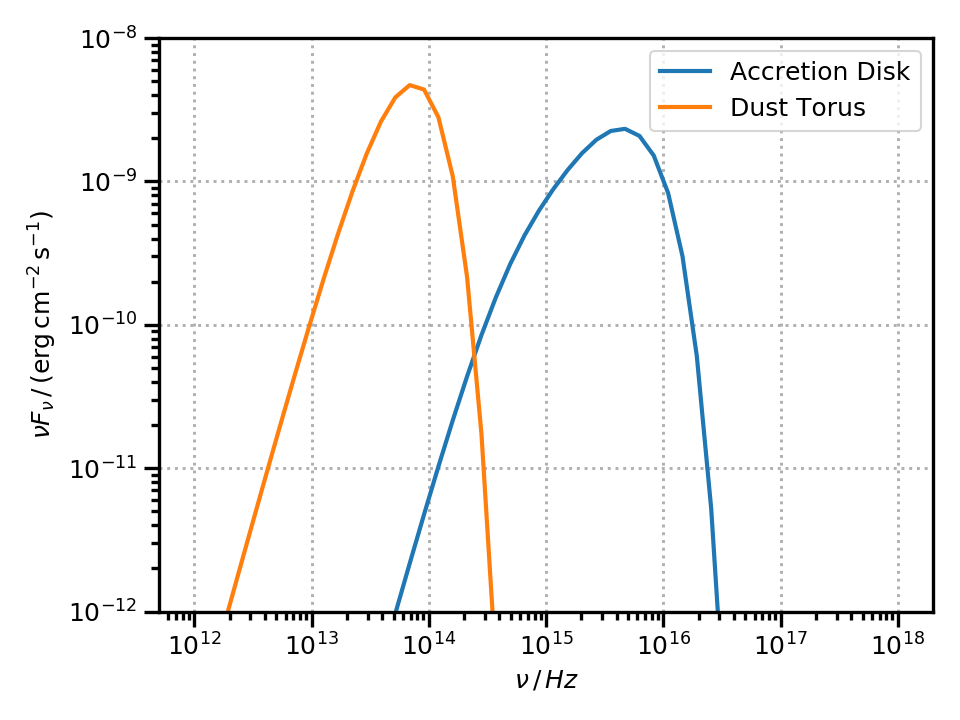
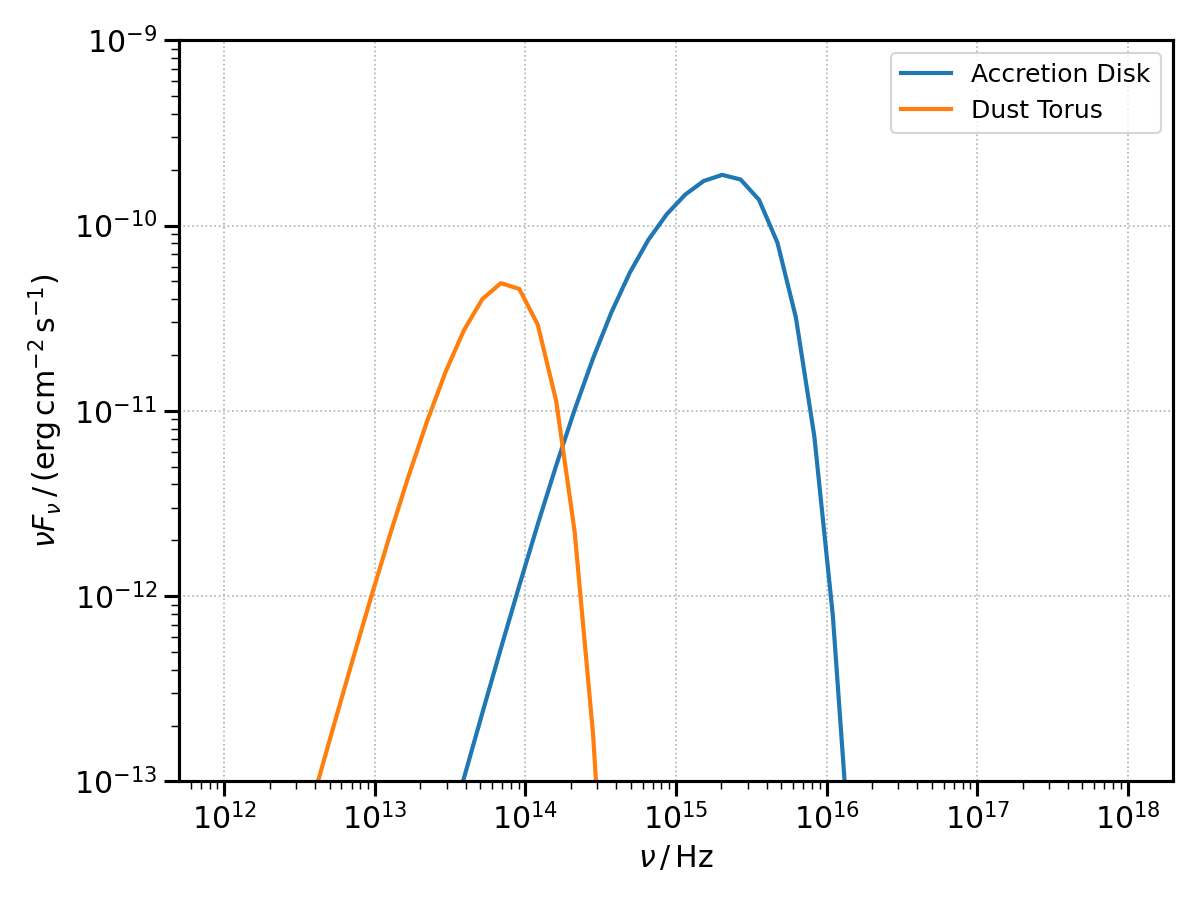
minor estethic improvements [ci skip]

diff --git a/docs/emission_regions.rst b/docs/emission_regions.rst
@@ -23,14 +23,12 @@ The physical quantities *needed* to define the blob are:
 Follows a snippet initialising the `Blob` (using `astropy` quantities) with its physical quantities and an electrons disitribtuion.
 
 .. literalinclude:: snippets/blob_snippet.py
+   :lines: 1-26
 
 Note that defining :math:`\delta_{\rm D}` and :math:`\Gamma` implicitly defines the viewing angle :math:`\theta_{\rm s}`. If you want to set the Doppler factor from :math:`\Gamma` and :math:`\theta_{\rm s}`, you can do so by using the :py:meth:`~agnpy.emission_regions.Blob.set_delta_D` function;
 
-.. code-block:: python
-
-   blob = Blob()
-   blob.set_delta_D(Gamma=20, theta_s=10 * u.deg)
-   print(f"{blob.delta_D:.2f}")
+.. literalinclude:: snippets/blob_snippet.py
+   :lines: 29-32
 
 .. code-block:: text
 
@@ -38,16 +36,8 @@ Note that defining :math:`\delta_{\rm D}` and :math:`\Gamma` implicitly defines 
 
 Since version ``0.3.0``, we can also specify a non-thermal proton distribution
 
-.. code-block:: python
-
-   n_p = PowerLaw(k=0.1 * u.Unit("cm-3"), p=2.3, gamma_min=10, gamma_max=1e6, mass=m_p)
-   blob = Blob(R_b, z, delta_D, Gamma, B, n_e=n_e, n_p=n_p)
-
-The :class:`~agnpy.emission_regions.Blob` can be printed at any moment to obtain a resume of the blob characterisitcs
-
-.. code-block:: python
-
-   print(blob)
+.. literalinclude:: snippets/blob_snippet.py
+   :lines: 35-38
 
 .. code-block:: text
 
@@ -78,19 +68,17 @@ The :class:`~agnpy.emission_regions.Blob` can be printed at any moment to obtain
     - gamma_min: 1.00e+01
     - gamma_max: 1.00e+06
 
+As shown above, the :class:`~agnpy.emission_regions.Blob` can be printed at any moment to obtain a resume of the blob characterisitcs
 
 Additional quantities computed by the blob
-^^^^^^^^^^^^^^^^^^^^^^^^^^^^^^^^^^^^^^^^^^
+..........................................
+
 The quantities listed in the previous section, needed to initialise the blob, are then used to evaluate several other physical quantities.
 Among the most interesting are the energy densities in electrons and protons :math:`u_{\rm e},\;u_{\rm p}`; the energy density of the magnetic field :math:`U_B`, and of the synchrotron radiation :math:`u_{\rm ph,\, synch}`.
 You can examine all of the physical quantities automatically computed by the :class:`~agnpy.emission_regions.Blob` in the API.
 
-.. code-block:: python
-
-   print(f"{blob.u_e:.2e}")
-   print(f"{blob.u_p:.2e}")
-   print(f"{blob.U_B:.2e}")
-   print(f"{blob.u_ph_synch:.2e}")
+.. literalinclude:: snippets/blob_snippet.py
+   :lines: 41-45
 
 .. code-block:: text
 

diff --git a/docs/index.rst b/docs/index.rst
@@ -32,13 +32,13 @@ The code is available in the `python package index <https://pypi.org/project/agn
 
 .. code-block:: bash
 
-    pip install agnpy
+   pip install agnpy
 
 The code can also be installed with ``conda``
 
 .. code-block:: bash
 
-    conda install -c conda-forge agnpy
+   conda install -c conda-forge agnpy
 
 
 Dependencies
